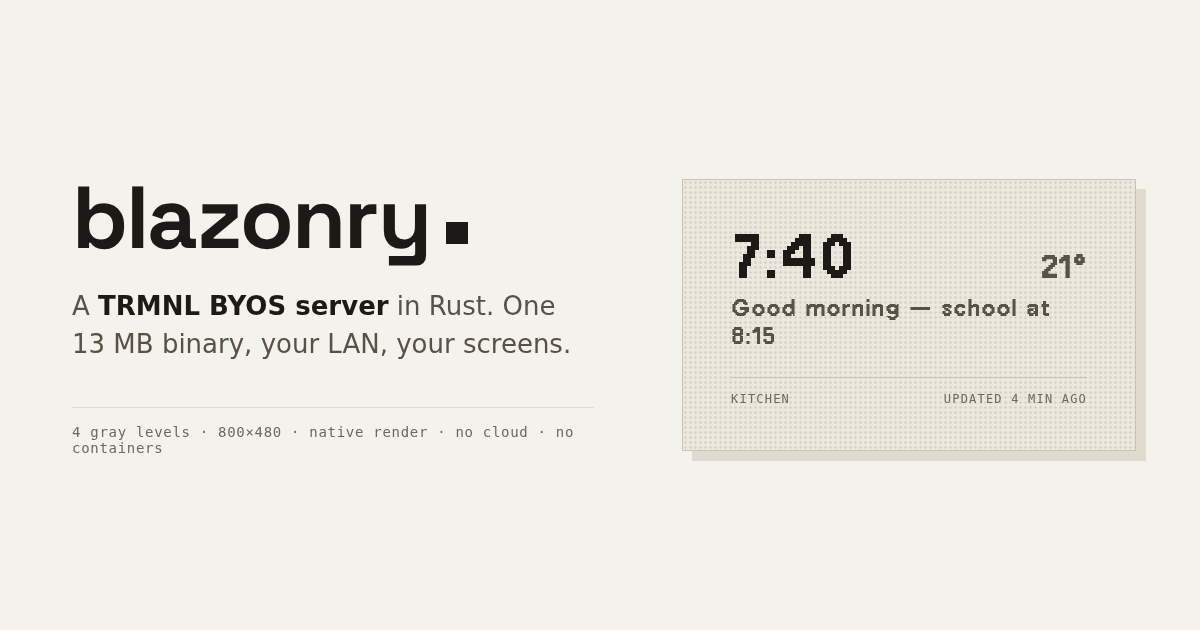
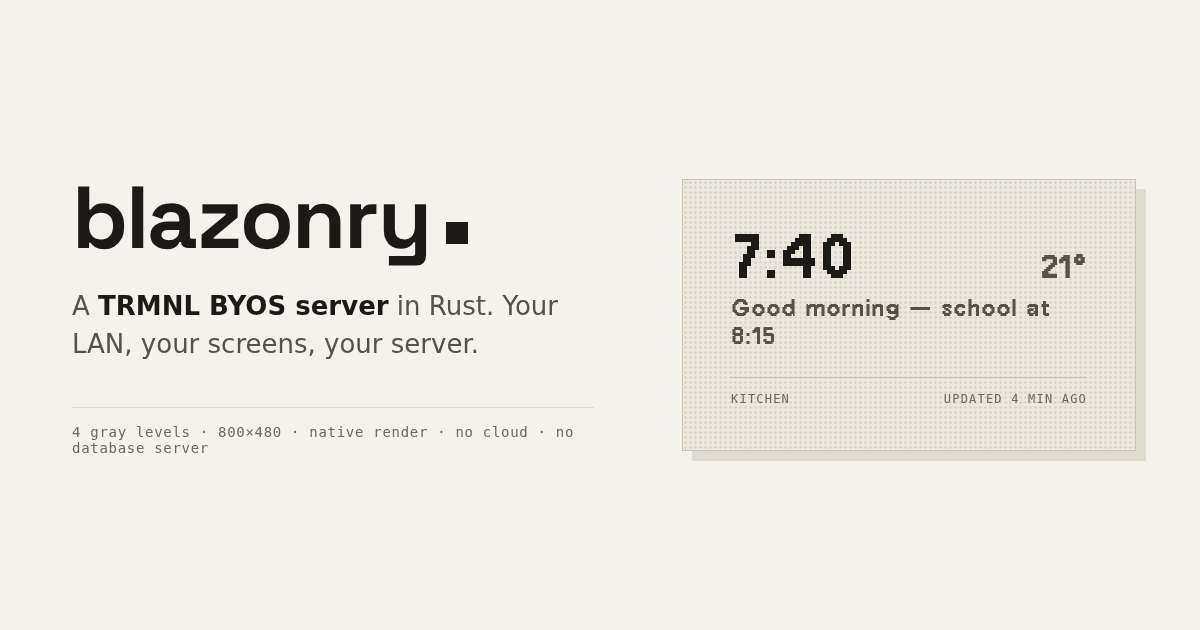
docs: drop the size claim from the social card
The README no longer compares image size against Terminus, so the card should
not lead with a number either. 'no containers' was also wrong: the image is a
container. What the deployment does without is a database server.

Changed region(s): [[0.0617, 0.4524, 0.4625, 0.573], [0.0617, 0.6937, 0.185, 0.7238]]

diff --git a/scripts/social_card.py b/scripts/social_card.py
@@ -43,8 +43,8 @@ border-top:1px solid var(--ln2);padding-top:14px}
 </style></head><body>
 <div class="left">
   <div class="wm">blazonry</div>
-  <div class="pitch">A <b>TRMNL BYOS server</b> in Rust. One 13&nbsp;MB binary, your LAN, your screens.</div>
-  <div class="specline">4 gray levels · 800×480 · native render · no cloud · no containers</div>
+  <div class="pitch">A <b>TRMNL BYOS server</b> in Rust. Your LAN, your screens, your server.</div>
+  <div class="specline">4 gray levels · 800×480 · native render · no cloud · no database server</div>
 </div>
 <div class="right"><div class="panel">
   <div>
